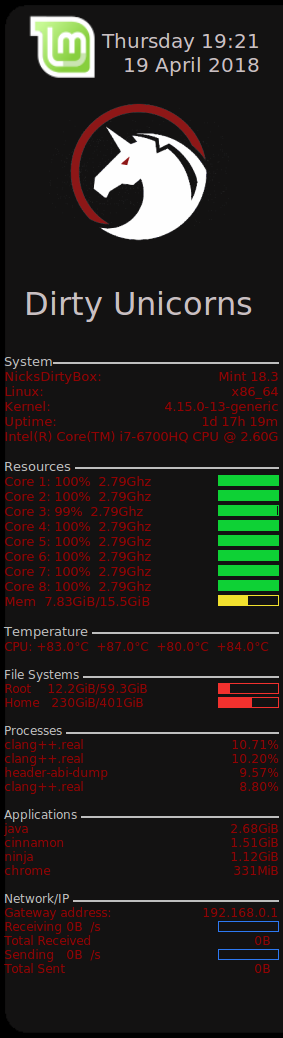
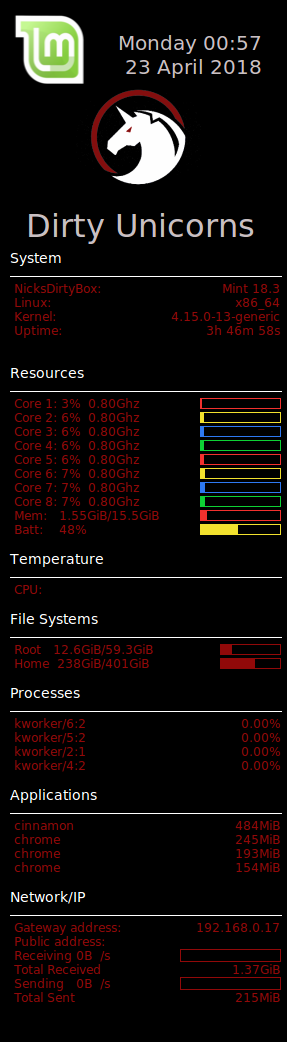
Fix network, cleanup and add readme

Changed region(s): [[0.0, 0.0, 0.9894, 0.9865]]

diff --git a/README.md b/README.md
@@ -1,0 +1,12 @@
+# DU System Monitor widget for Conky #
+[<center><img src="https://github.com/nickdoherty81/conky_DU-SystemMonitor/blob/mint/dusys.rc.png" height="100%" width="100%;"/></center>](https://github.com/nickdoherty81/conky_DU-SystemMonitor/)
+
+## To use, install Conky ##
+Then open Terminal
+
+```bash
+$ ~/.conky
+$ git clone https://github.com/nickdoherty81/conky_DU-SystemMonitor.git -b mint DU-SystemMonitor
+```
+
+Then open Conky and select DU-SystemMonitor
